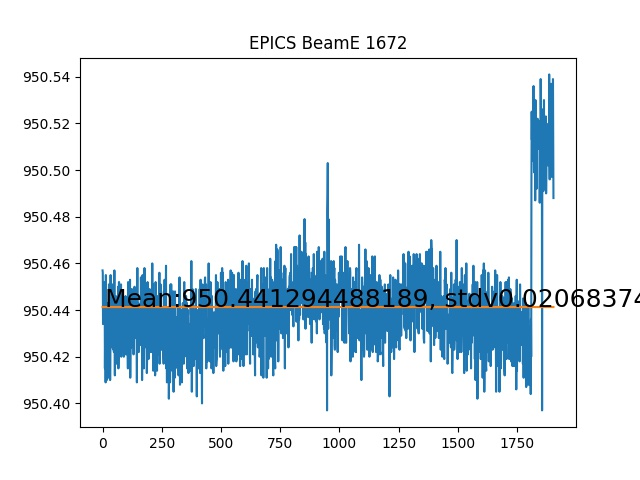
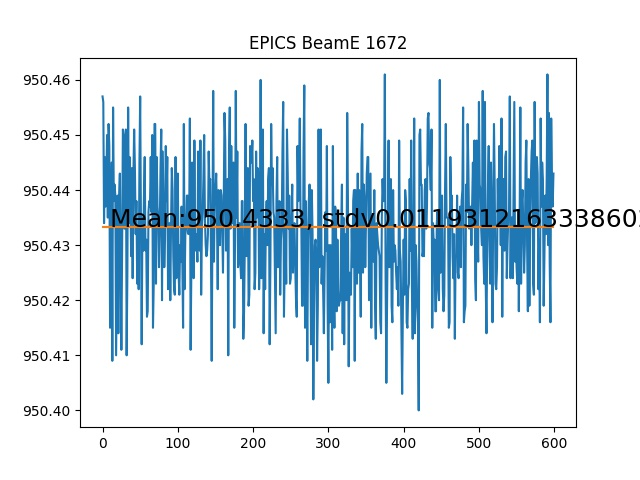
add cut the event

diff --git a/halog/getBeamPlot.py b/halog/getBeamPlot.py
@@ -26,7 +26,7 @@ class beamEInfor(object):
                 if len(lines) > 10:
                     content=[x.strip() for x in lines]
                     beamEArray = [float(line.split()[-1]) for line in content]
-                    beamEArray = beamEArray#[0:900]
+                    beamEArray = beamEArray[0:600]
                     self.BeamEData[runID]=beamEArray
 
     def BeamE_SingRun(self):
